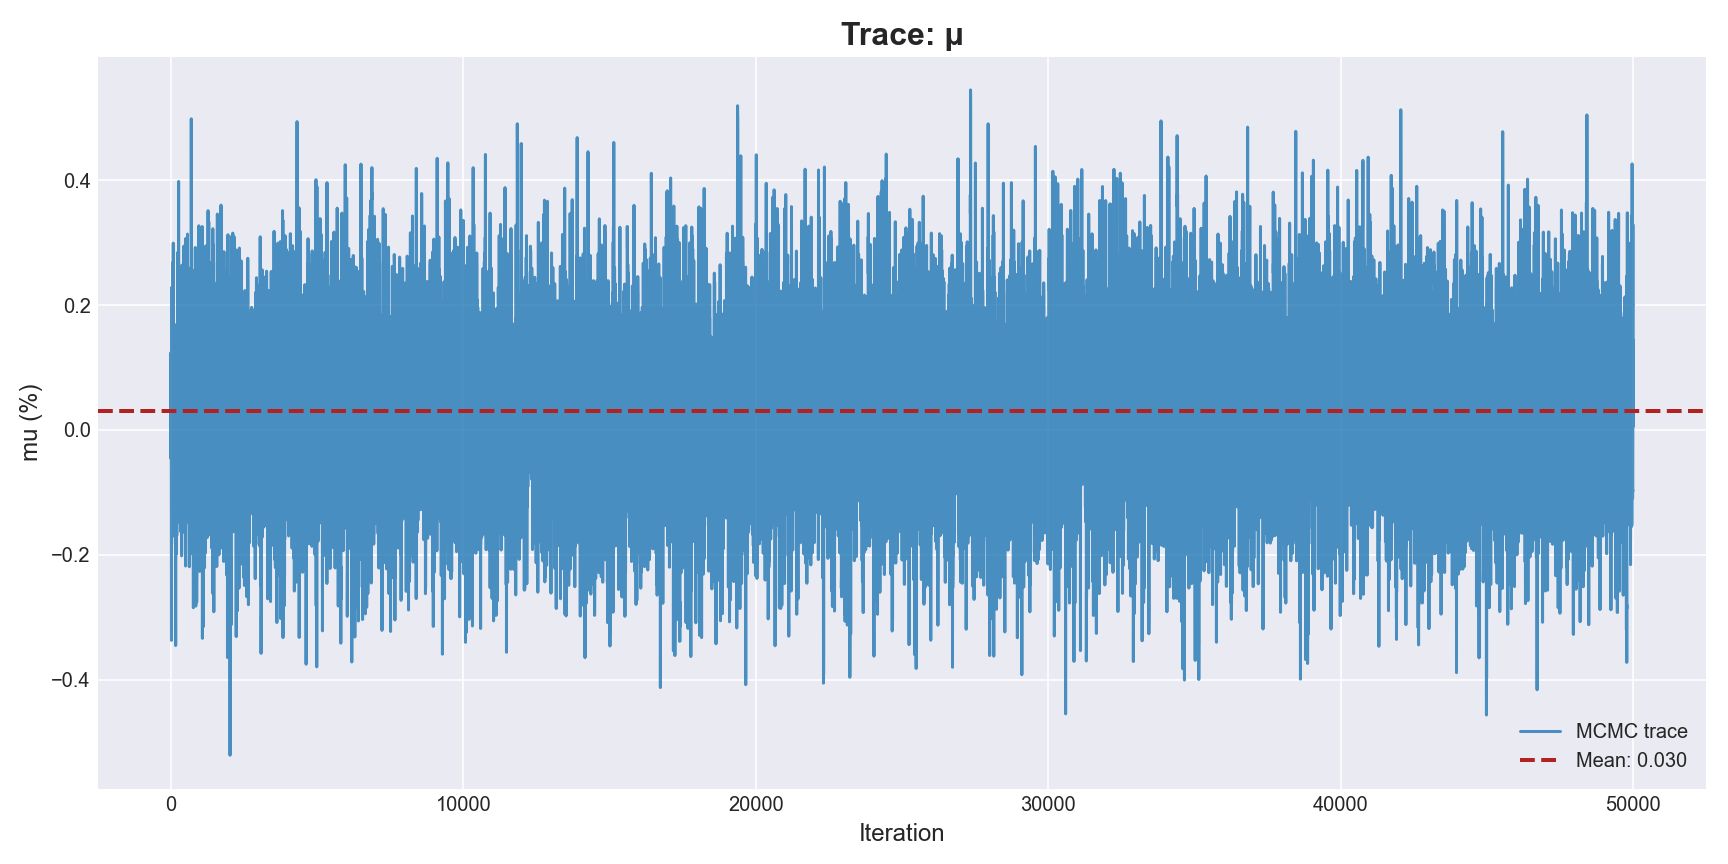
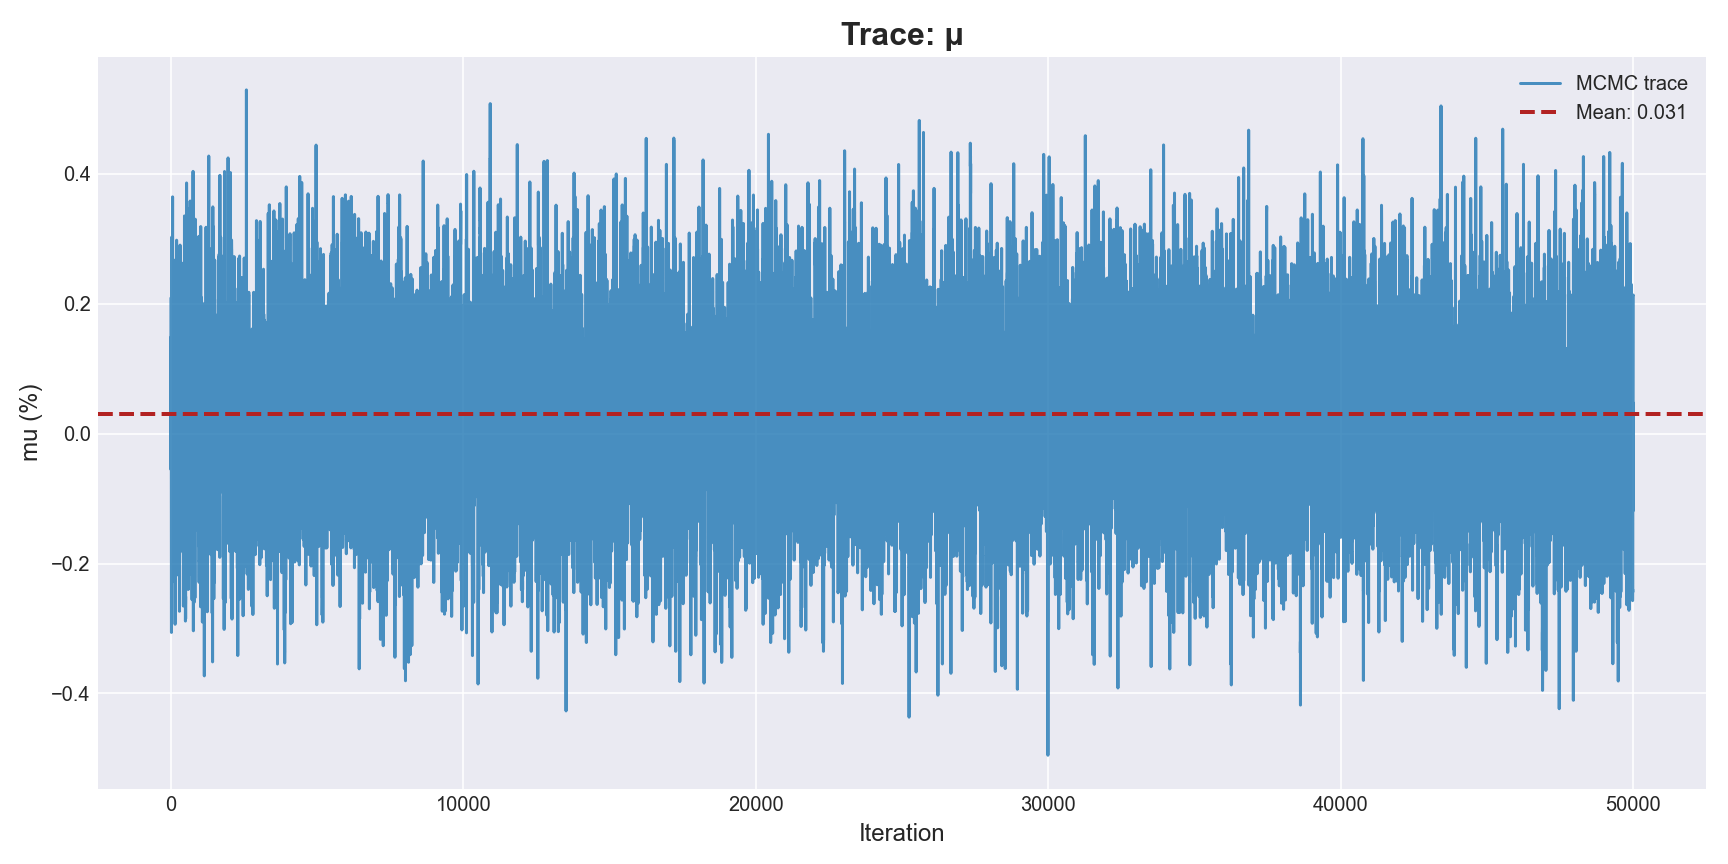
eva's 12.1

diff --git a/t_student_mcmc_tesla.py b/t_student_mcmc_tesla.py
@@ -14,23 +14,20 @@ OUT_DIR = os.path.join(BASE_DIR, "outputs")
 if not os.path.exists(OUT_DIR):
     os.makedirs(OUT_DIR)
 
+REPORT_FILENAME = "analysis_report.txt"
+
 N_ITER    = 50000  # Total MCMC iterations
 BURN_FRAC = 0.1    # Burn-in fraction
 
 # MH step size (needs adjustment based on acceptance rate)(percentage of the total N_iter)
-STEP_MU   = 0.25
-STEP_ETA  = 0.15
+STEP_MU   = 0.30 # 稍微增大步长以降低接受率，提高ESS
+STEP_ETA  = 0.2
 
 SEED = 42 # 随机种子，保证结果可复现
 
 # ===================================================================
 
 # ============ 工具函数 ============
-
-def mad_robust(x):
-    """稳健尺度：1.4826 * MAD"""
-    med = np.median(x)
-    return 1.4826 * np.median(np.abs(x - med))
 
 def load_returns(csv_path, returns_are_percent=True):
     """从 CSV 加载收益率数据。"""
@@ -149,9 +146,8 @@ def mwg_sampler(r,
 
     # ------ 初始化 θ 和 λ ------
     if init is None:
-        s_robust = mad_robust(r)
         mu0   = 0.0
-        logs0 = np.log(max(s_robust, 1e-8))
+        logs0 = np.log(np.std(r, ddof=1)) # 使用数据的样本标准差作为初始值
         eta0  = np.log(8.0)   # 初始 nu ≈ 8
         theta = np.array([mu0, logs0, eta0], dtype=float)
     else:
@@ -435,12 +431,11 @@ def main():
     # 读收益（单位：百分比）
     r = load_returns(CSV_PATH, returns_are_percent=RETURNS_ARE_PERCENT)
 
-    # (动态设定先验超参数)
-    s_robust = mad_robust(r)
+    # (设定先验超参数 — 使用固定尺度以保持简单)
     hyper_params = {
-        "tau_mu":       s_robust,      # mu 的先验标准差，与数据尺度相关
-        "alpha_ig":     3.0,           # 弱信息先验形状参数
-        "beta_ig":      max(s_robust ** 2, 1e-6),  # 规模参数，匹配数据尺度
+        "tau_mu":       100,      # mu 的先验标准差，与数据尺度相关
+        "alpha_ig":     0.01,           # 弱信息先验形状参数
+        "beta_ig":      0.01,  # 固定规模参数
         "mean_nu_star": 30.0           # Prior mean for nu (weakly informative)
     }
 
@@ -531,14 +526,6 @@ def analyze_and_plot_results(r, post, chain, acc_rate, sampler_name, hyper_param
         "accept_rate": acc_rate,
     })
     acc_df.to_csv(os.path.join(OUT_DIR, "acceptance_rates.csv"), index=False)
-
-    diagnostics_txt = os.path.join(OUT_DIR, "diagnostics.txt")
-    with open(diagnostics_txt, "w", encoding="utf-8") as fh:
-        fh.write(f"Sampler: {sampler_name}\n")
-        fh.write(f"Iterations: {len(chain)}, burn-in fraction: {BURN_FRAC}\n")
-        fh.write("Acceptance rates (mu, log_sigma, eta): " + ", ".join(f"{x:.3f}" for x in acc_rate) + "\n")
-        fh.write("ESS (mu, sigma, nu): " + ", ".join(f"{x:.1f}" for x in ess_vals) + "\n")
-        fh.write(f"Summary CSV: {summary_path}\n")
     
     # Calculate Geweke Z-scores
     z_mu = geweke_diagnostic(mu_samps)
@@ -564,8 +551,9 @@ def analyze_and_plot_results(r, post, chain, acc_rate, sampler_name, hyper_param
     
     # 清洗数据：如果有 nu <= 1 导致的 -inf，将其过滤掉或单独报告
     valid_mask = np.isfinite(es_chain)
-    if np.sum(~valid_mask) > 0:
-        print(f"Warning: {np.sum(~valid_mask)} samples had nu <= 1 (ES undefined).")
+    invalid_es_count = int(np.sum(~valid_mask))
+    if invalid_es_count > 0:
+        print(f"Warning: {invalid_es_count} samples had nu <= 1 (ES undefined).")
         var_chain = var_chain[valid_mask]
         es_chain  = es_chain[valid_mask]
     
@@ -623,7 +611,41 @@ def analyze_and_plot_results(r, post, chain, acc_rate, sampler_name, hyper_param
         plt.savefig(os.path.join(OUT_DIR, "risk_posterior.png"), dpi=144)
         plt.close(fig)
 
+    # Consolidated text report
+    report_lines = []
+    report_lines.append("=== Run Configuration ===")
+    report_lines.append(f"Sampler: {sampler_name}")
+    report_lines.append(f"Iterations: {len(chain)}, burn-in fraction: {BURN_FRAC}")
+    report_lines.append("")
+    report_lines.append("Hyperparameters:")
+    for key, value in hyper_params.items():
+        report_lines.append(f"  {key}: {value}")
+    report_lines.append("")
+    report_lines.append("Acceptance rates (mu, log_sigma, eta): " + ", ".join(f"{x:.3f}" for x in acc_rate))
+    report_lines.append("ESS (mu, sigma, nu): " + ", ".join(f"{x:.1f}" for x in ess_vals))
+    report_lines.append(f"Posterior summary CSV: {summary_path}")
+    report_lines.append(f"Acceptance rates CSV: {os.path.join(OUT_DIR, 'acceptance_rates.csv')}")
+    report_lines.append("")
+    report_lines.append("Geweke diagnostics (Z-scores):")
+    report_lines.append(f"  mu   : {z_mu:.3f}")
+    report_lines.append(f"  sigma: {z_sigma:.3f}")
+    report_lines.append(f"  nu   : {z_nu:.3f}")
+    report_lines.append("(|Z| < 1.96 suggests convergence)")
+    report_lines.append("")
+    report_lines.append(f"VaR mean (alpha={ALPHA*100:.1f}%): {var_mean:.4f}")
+    report_lines.append(f"VaR 95% CI: [{var_lower:.4f}, {var_upper:.4f}]")
+    report_lines.append(f"ES mean  (alpha={ALPHA*100:.1f}%): {es_mean:.4f}")
+    report_lines.append(f"ES 95% CI: [{es_lower:.4f}, {es_upper:.4f}]")
+    if invalid_es_count > 0:
+        report_lines.append(f"Warning: {invalid_es_count} samples discarded because nu <= 1 made ES undefined.")
+    report_lines.append(f"Risk metrics CSV: {risk_out_path}")
+
+    report_path = os.path.join(OUT_DIR, REPORT_FILENAME)
+    with open(report_path, "w", encoding="utf-8") as fh:
+        fh.write("\n".join(report_lines))
+
     print("Posterior summaries and diagnostics saved to the outputs/ folder.")
+    print(f"Detailed text report written to: {report_path}")
 
 
 if __name__ == "__main__":
